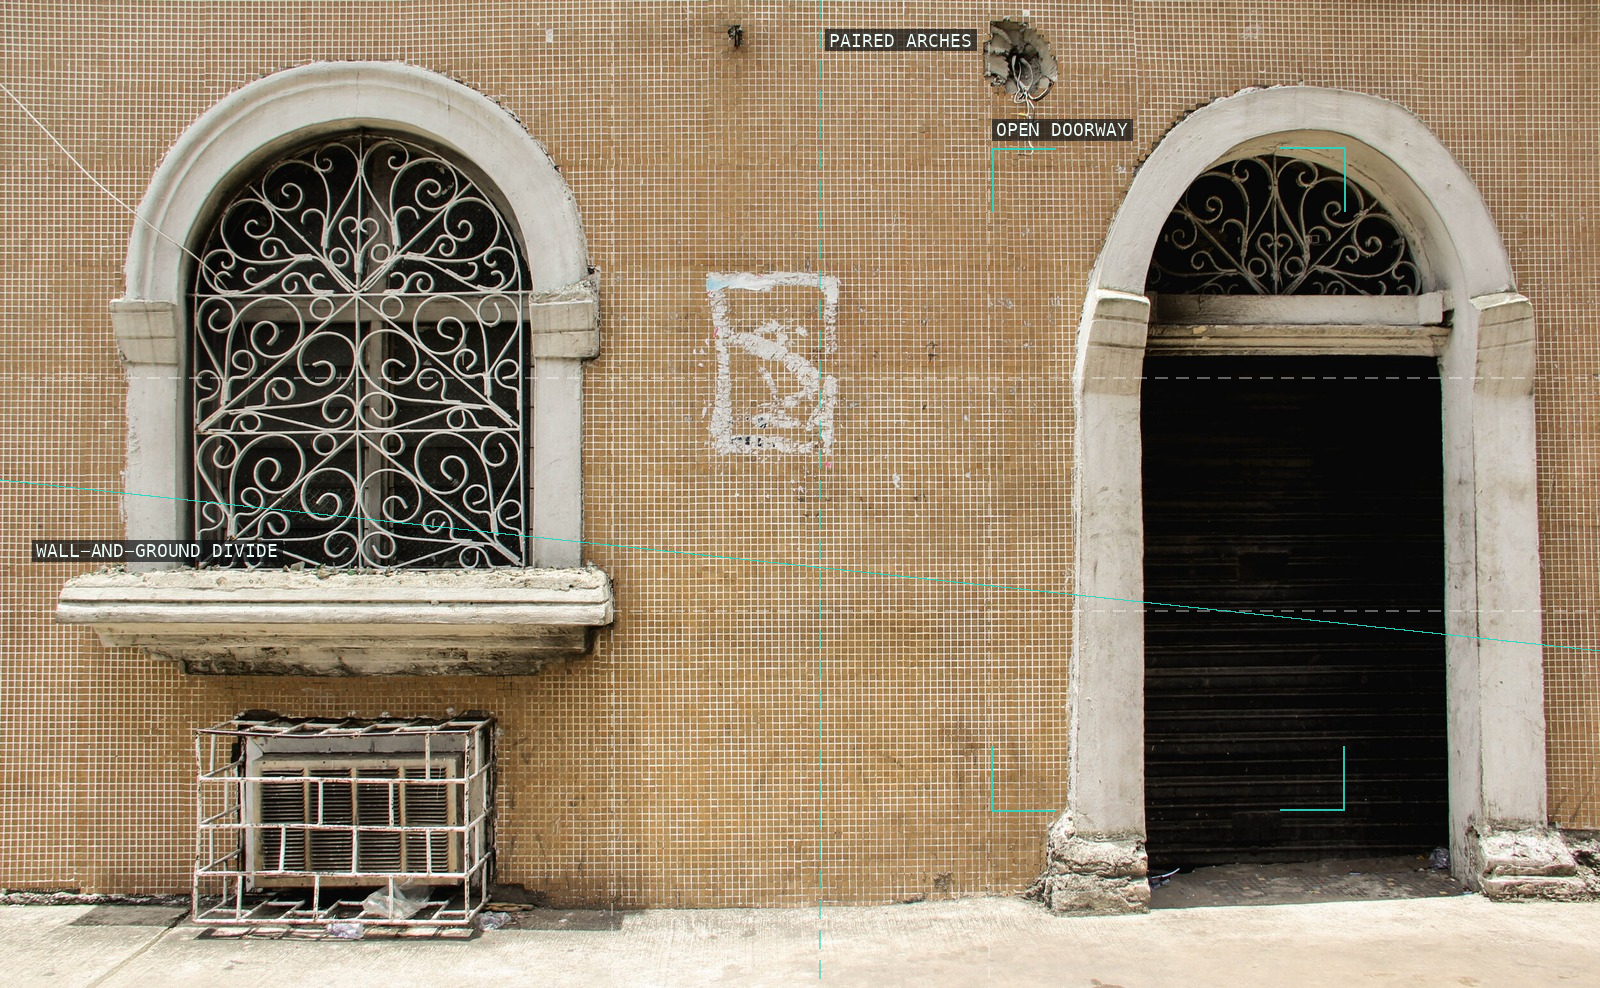
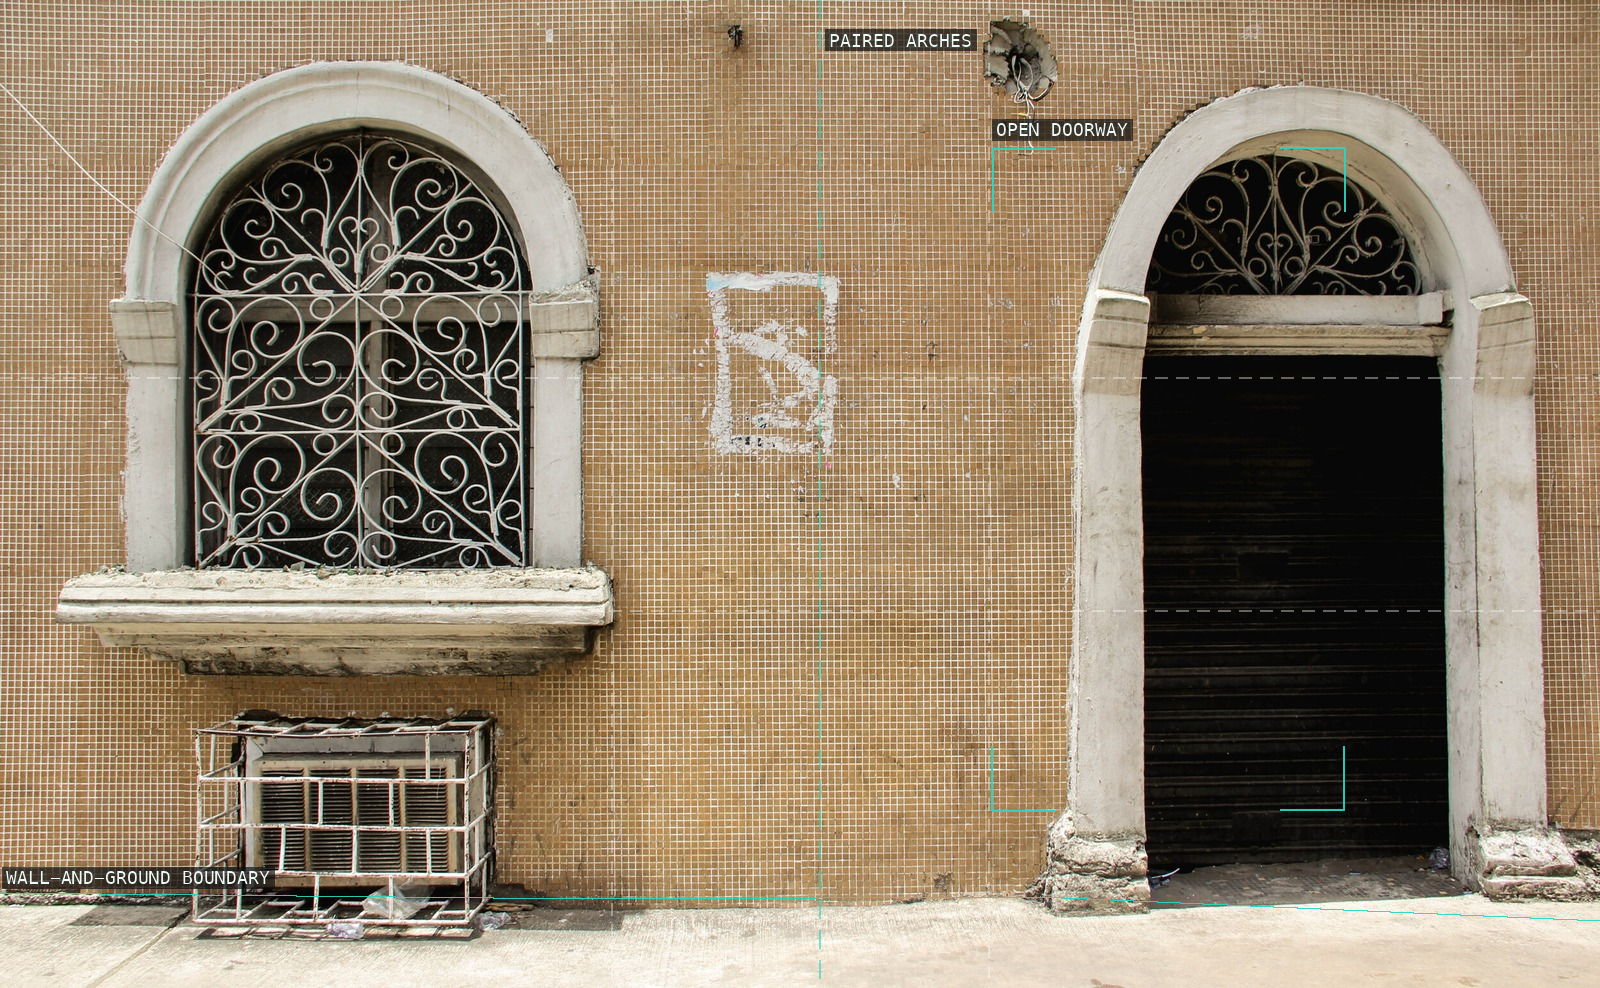
resolve critique: amanda-iheme

Changed region(s): [[0.0, 0.8806, 0.1875, 0.9109], [0.0, 0.5466, 0.1875, 0.5769]]

diff --git a/content/amanda-iheme/critique.md b/content/amanda-iheme/critique.md
@@ -1,4 +1,4 @@
-verdict: revise
+verdict: resolved
 
 ## Critique round — 2026-08-02
 
@@ -11,3 +11,10 @@ verdict: revise
 
 - All twelve overlay specs contain three to five pedagogically distinct primitives and score 100/100 against their current analyses. The remaining issues are semantic, not scorer-detectable geometry errors.
 - Source links, credits, and the chapter-level statement that the four-factor fair-use assessment applies to each entry are present; no undocumented camera-setting claim was found.
+
+## Builder resolution — 2026-08-02
+
+- Resolved required fix 1: the 04 leading line is now labelled `UTILITY CABLE`, and both synchronized chapter copies describe a diagonally crossing utility cable rather than a utility-pole diagonal.
+- Resolved required fix 2: the 11 annotation is now a low `WALL-AND-GROUND BOUNDARY` polyline that follows the visible boundary, and both chapter copies describe it as low and gently sloping.
+- Re-verified critique history: `f7cd3d84cb76a1d2a99c1c3cc96a510639799687` (2026-08-02, the only prior round). Both required fixes remain reflected in the overlays, regenerated proofs, and synchronized chapter prose.
+- Fresh analysis and strict scoring: both revised overlays score 100/100; visual proof inspection is clean. `scripts/check.sh` passes.
